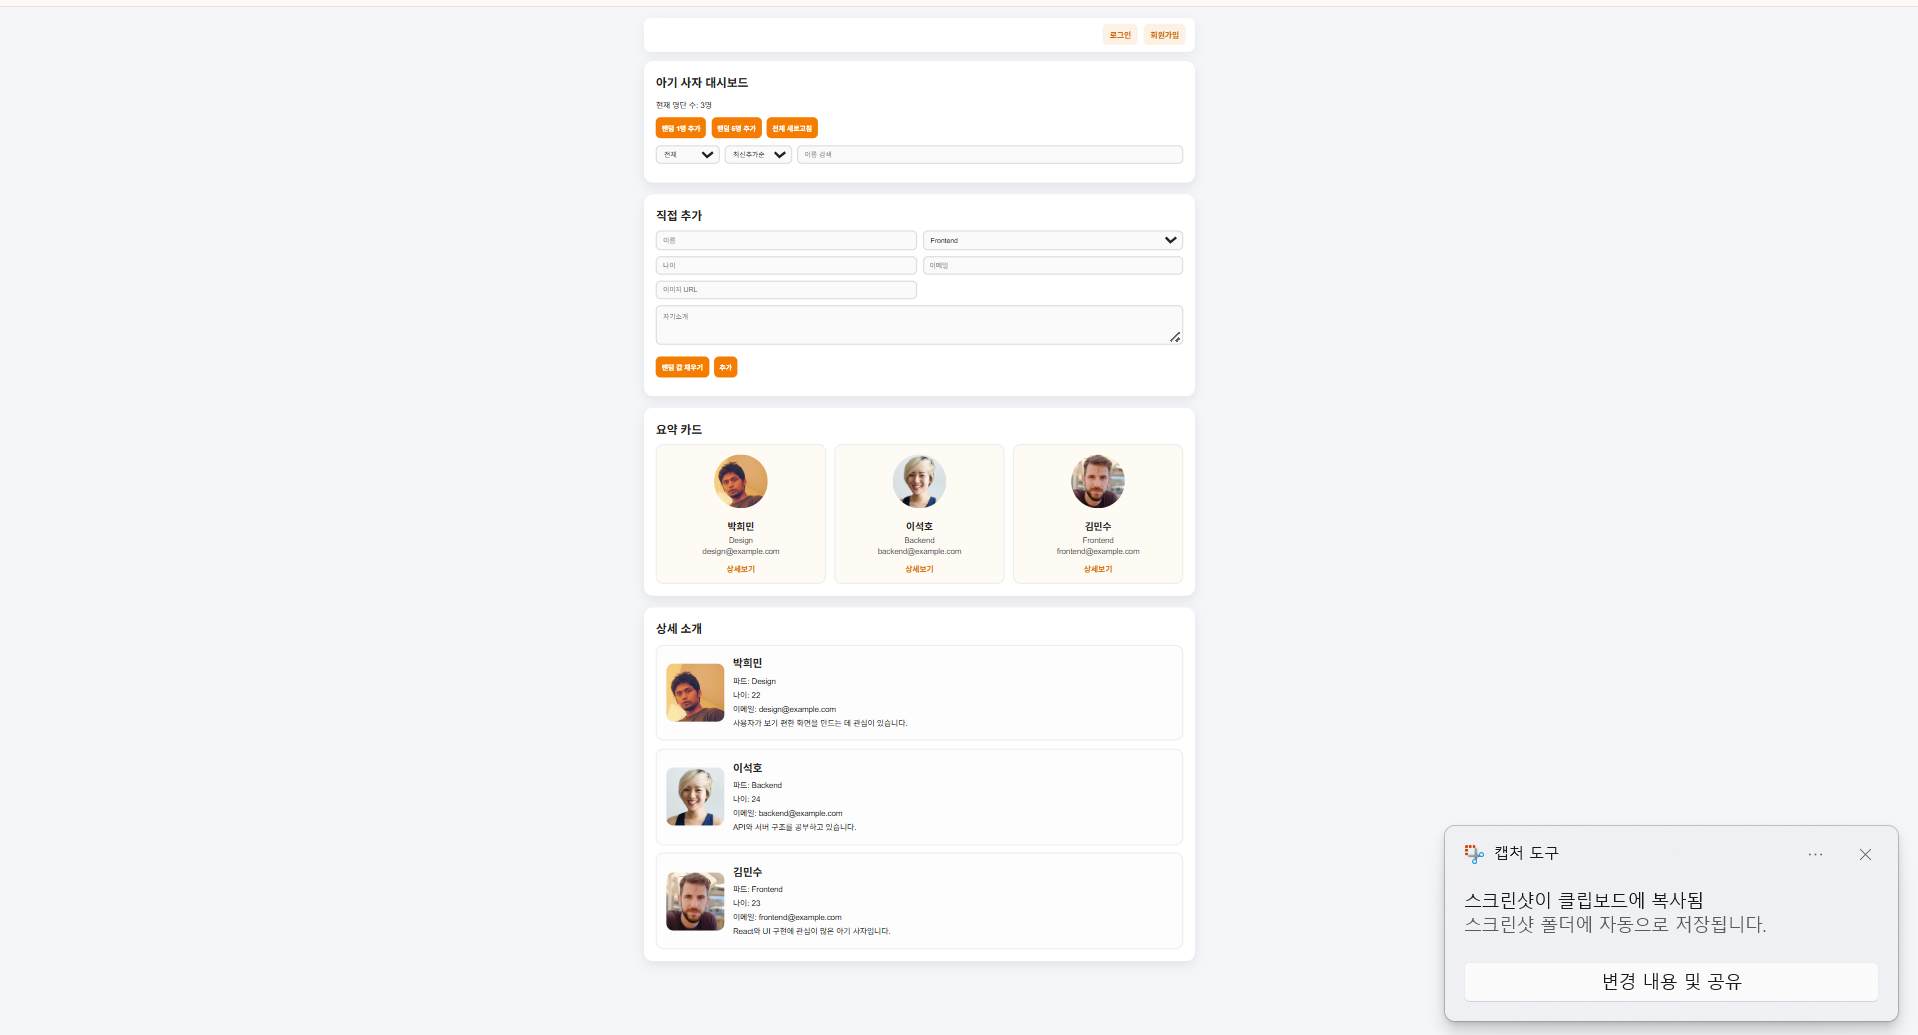
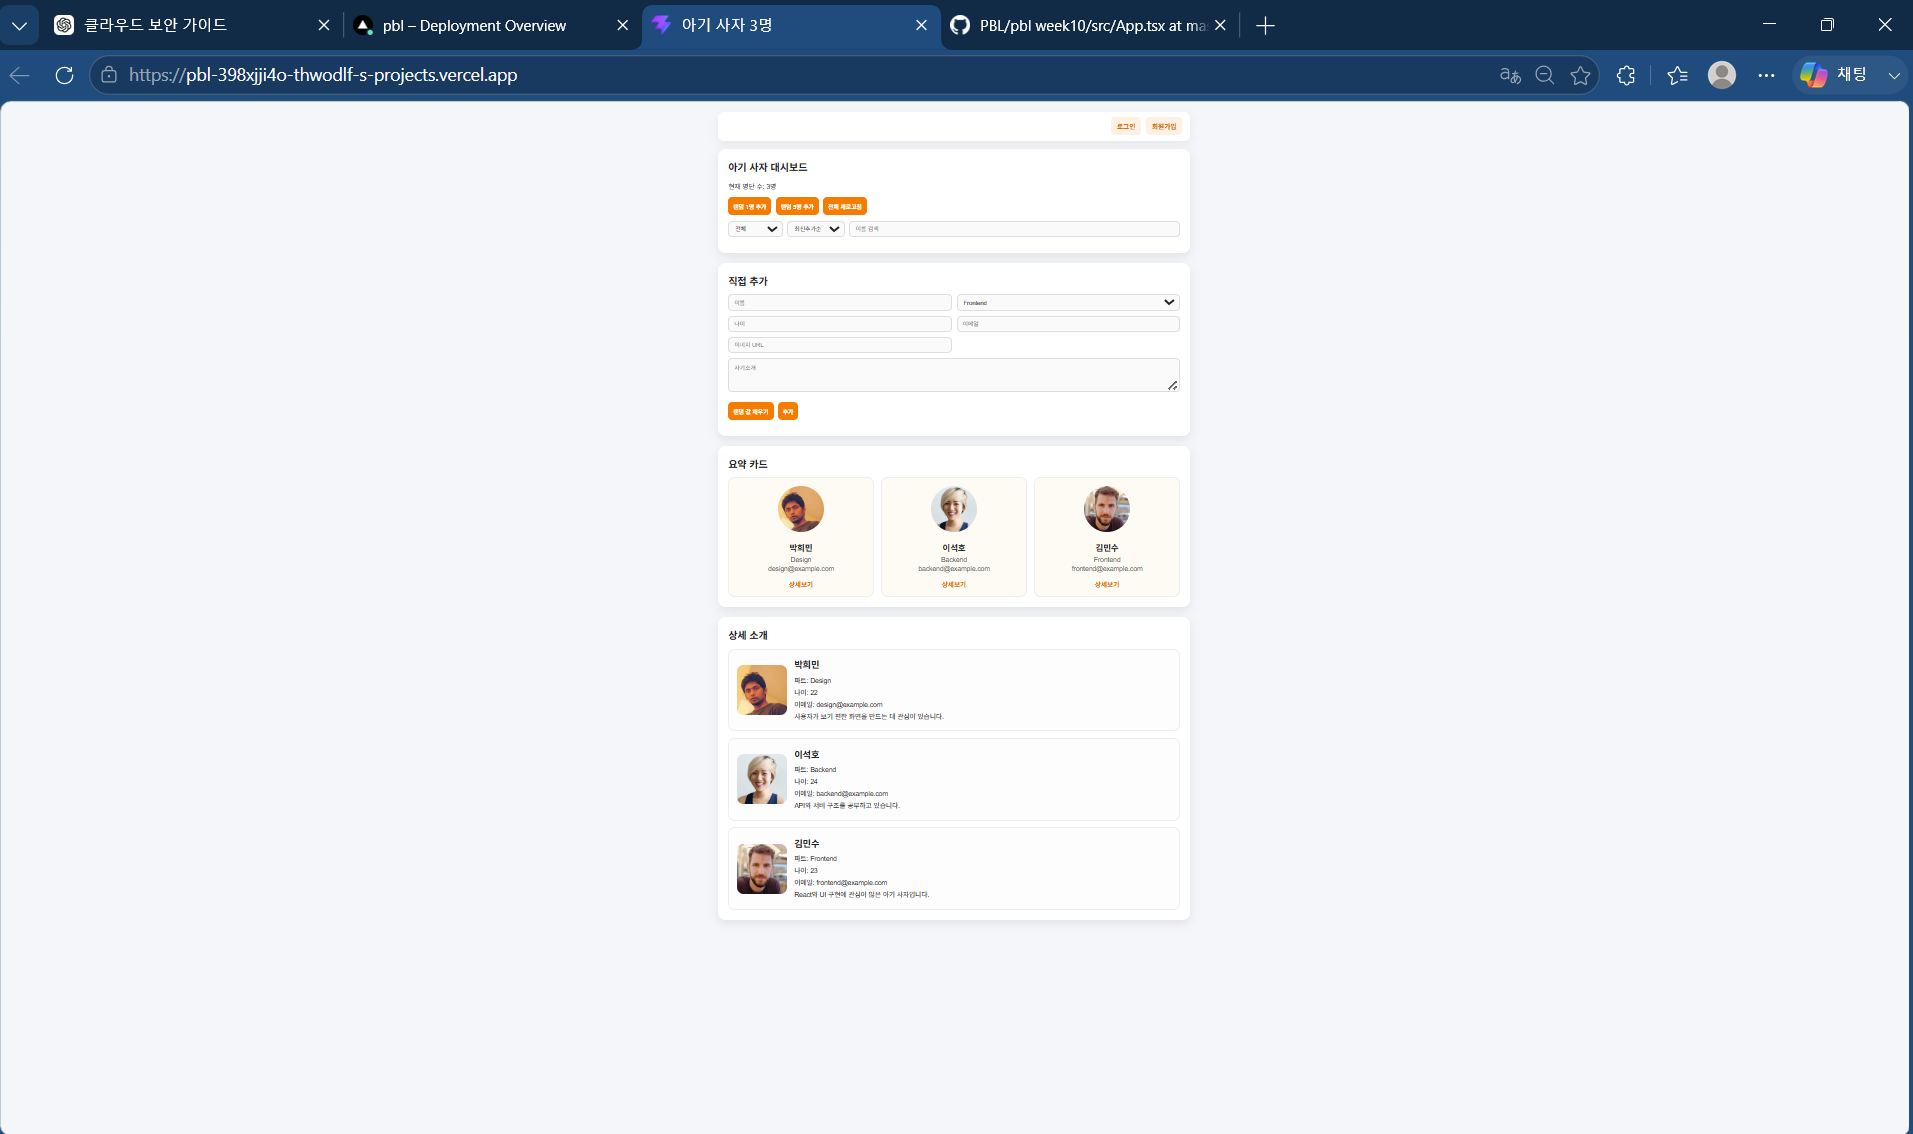
docs: add week10 til and deployment screenshots

diff --git a/pbl week10/Week10Til.md b/pbl week10/Week10Til.md
@@ -1,0 +1,25 @@
+# 📘 Today I Learned
+
+### 1. 오늘 배운 내용
+- Vercel을 이용해 React + TypeScript 프로젝트를 실제 URL로 배포했다.
+- GitHub 저장소와 Vercel을 연결하여 main/master 브랜치 기준 자동 배포를 설정했다.
+- Supabase 환경 변수를 Vercel에 따로 등록해야 배포 환경에서도 정상 동작한다는 것을 배웠다.
+
+### 2. 핵심 정리 (내 언어로)
+- yarn dev는 로컬 개발용 실행이고, yarn build는 배포용 파일을 만드는 과정이다.
+- Vercel은 GitHub 저장소를 연결하면 코드가 push될 때 자동으로 배포할 수 있다.
+- 로컬의 .env.local은 Vercel에 자동으로 올라가지 않기 때문에 환경 변수를 직접 등록해야 한다.
+- 배포 후에는 실제 URL에서 로그인, 데이터 조회, 추가, 삭제 기능이 동작하는지 확인해야 한다.
+
+### 3. 결과 이미지(스크린샷)
+
+#### 배포된 서비스 화면
+![서비스 실행 화면](./screenshot/result1.png)
+
+#### Vercel 배포 완료 화면
+![Vercel 배포 화면](./screenshot/result2.png)
+
+### 4. 느낀 점
+- 로컬에서 정상 동작하던 프로젝트도 배포 환경에서는 환경 변수 설정이 누락되면 제대로 실행되지 않는다는 것을 알게 되었다.
+- 오류가 발생했을 때 브라우저 콘솔을 확인하면 원인을 빠르게 찾을 수 있다는 점을 배웠다.
+- 이번 과제를 통해 단순 구현뿐 아니라 빌드, 배포, 환경 변수 관리까지 포함해 하나의 서비스를 완성하는 과정을 경험했다.
